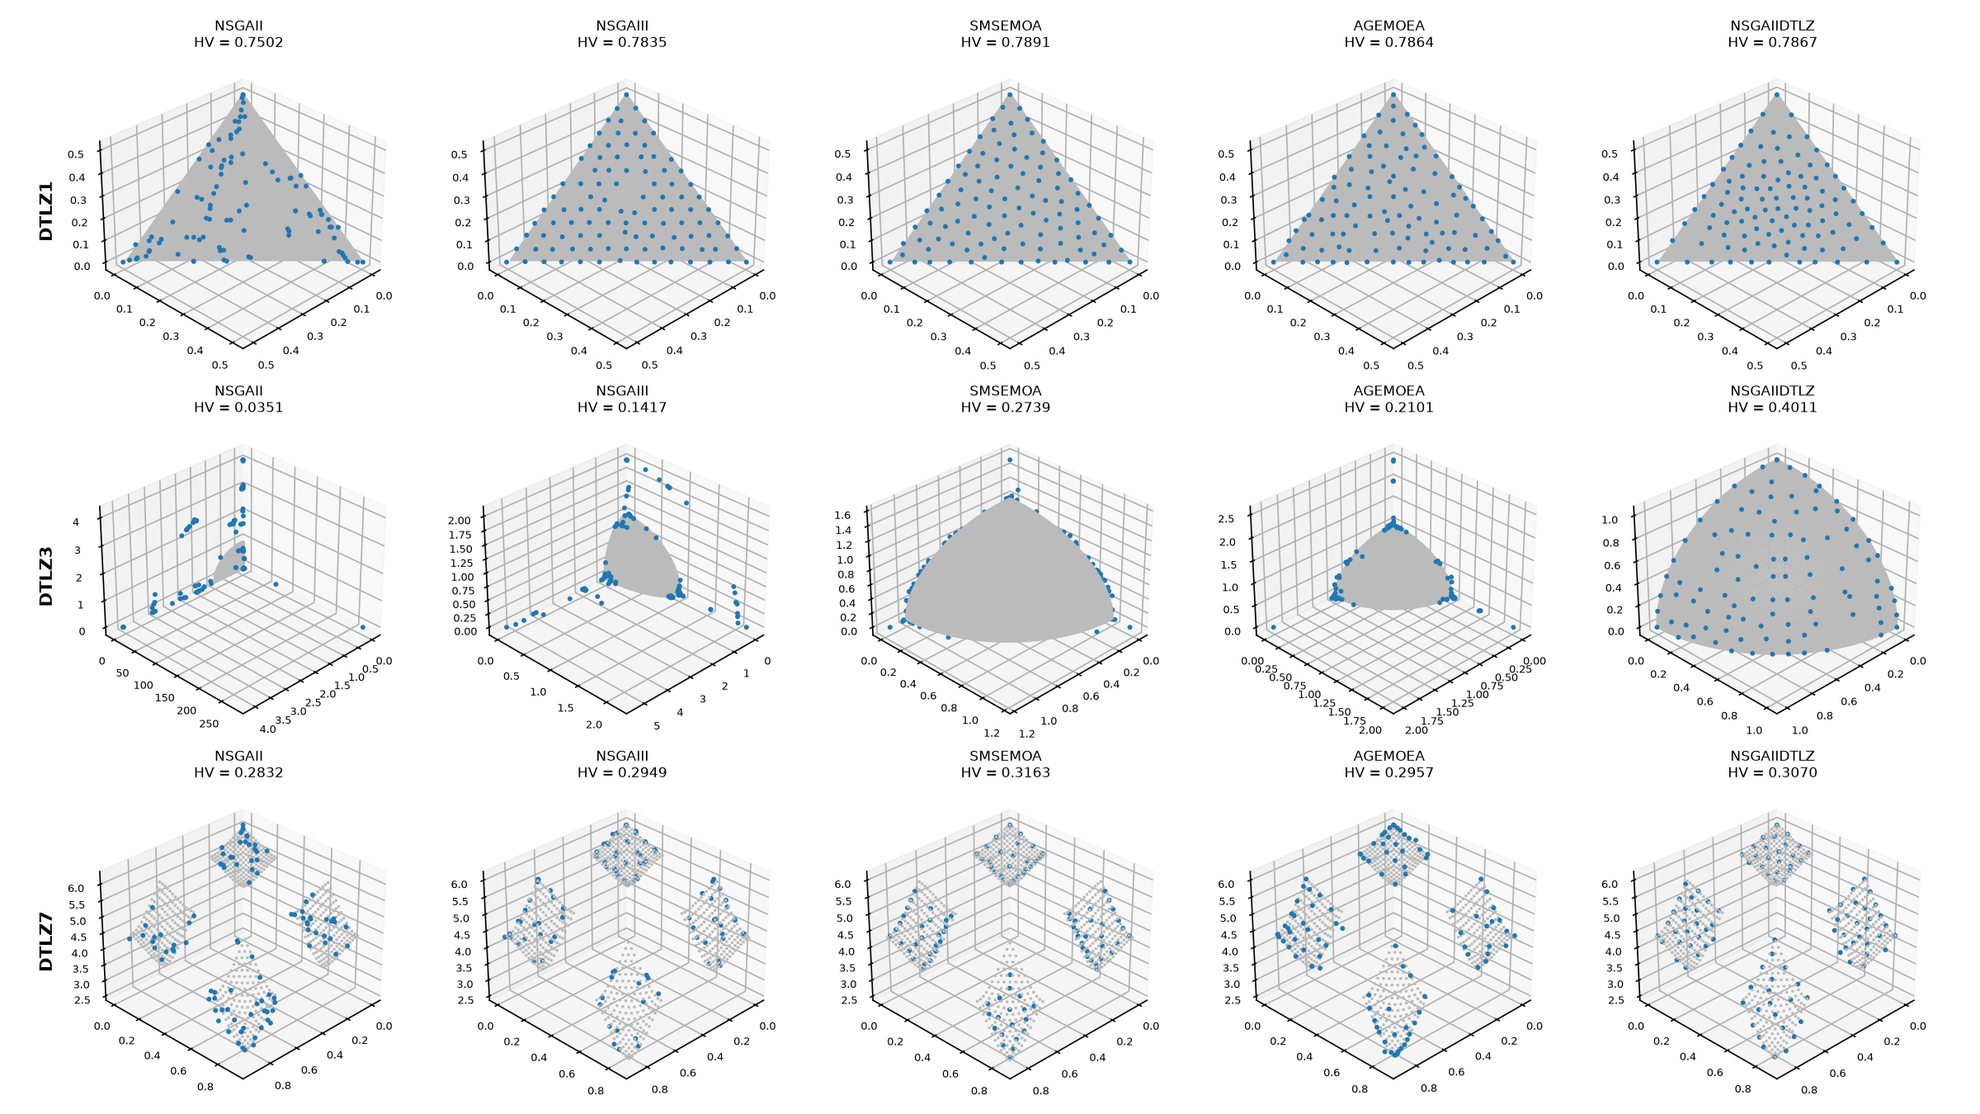
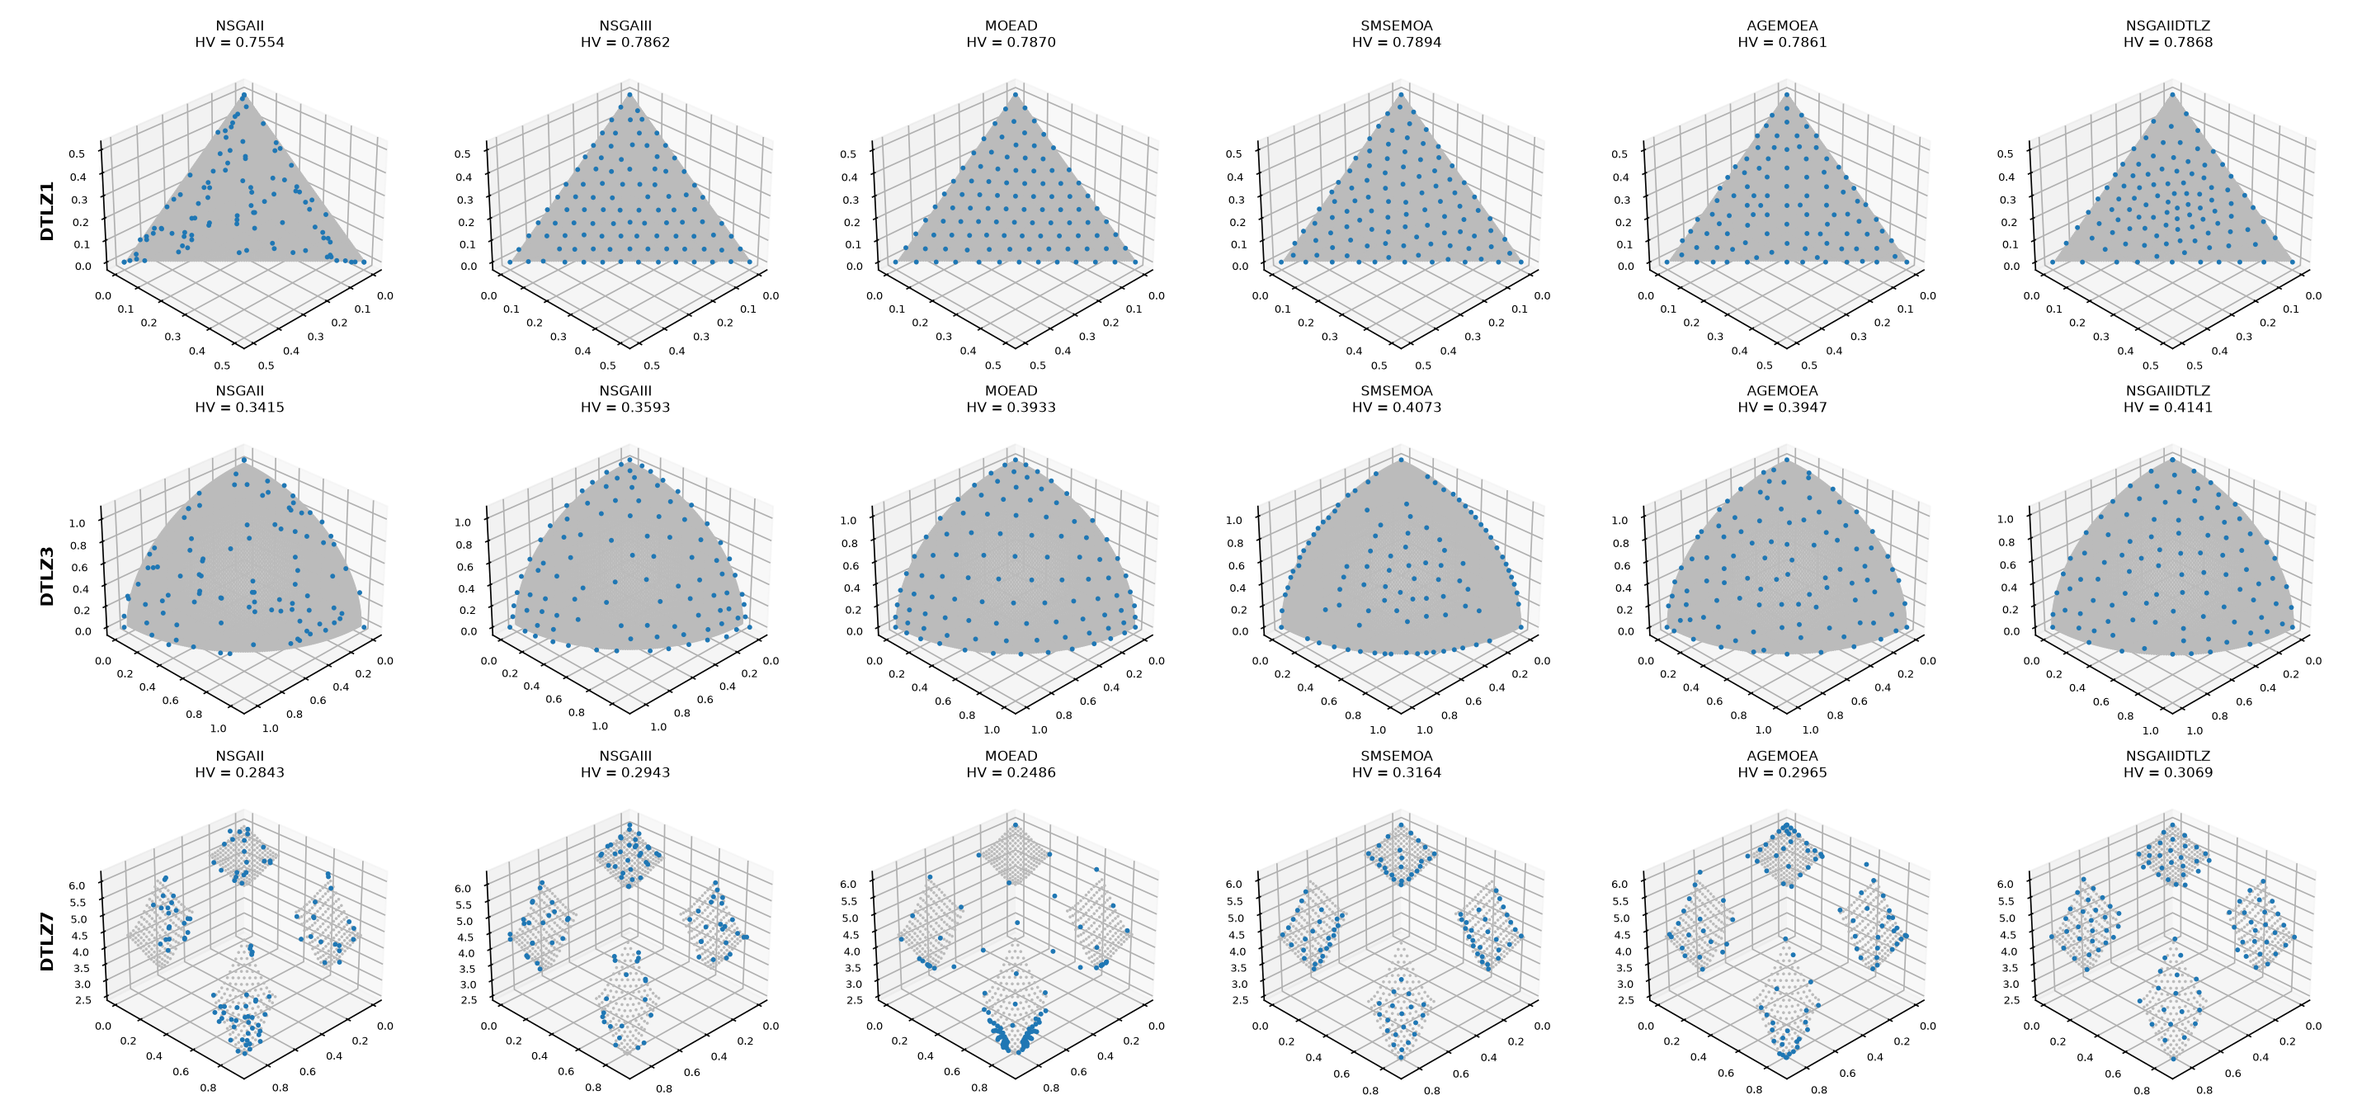
docs: revise tutorial E7 with the validation at 50000 evaluations
The page now describes a single experiment: training with 10000
evaluations and validation with 50000 against NSGA-II, NSGA-III, MOEA/D,
SMS-EMOA and AGE-MOEA, with Wilcoxon pivot tables, critical difference
plots and the fronts with the median HV. Changelog entries updated.

diff --git a/docs/tutorials/training_sets_indicators_budgets.rst b/docs/tutorials/training_sets_indicators_budgets.rst
@@ -4,7 +4,7 @@ E7. Training Sets, Indicators and Budgets
 =========================================
 
 :Level: Intermediate
-:Time: about 1 hour, of which the training takes about 35 minutes and the validation about 11
+:Time: about 1 hour, of which the training takes about 35 minutes and the validation about 15
 :Timings measured on: Apple M5 Pro (18 cores, 16 of them used by the training and the validation),
    64 GB of RAM, macOS 26.6.2, Java 21.0.12 (Oracle JDK)
 :Prerequisites: :doc:`E2. Base-level algorithms <base_level_algorithms>`,
@@ -21,7 +21,7 @@ training run and validates its result, deciding the four things that define a tr
 - the **independent runs** of each configuration.
 
 The case study tunes NSGA-II for the DTLZ1-7 problems with three objectives, and then validates the
-configuration found against the standard NSGA-II, NSGA-III, SMS-EMOA and AGE-MOEA, on those
+configuration found against the standard NSGA-II, NSGA-III, MOEA/D, SMS-EMOA and AGE-MOEA, on those
 problems and on the WFG1-9 problems, which the training never saw.
 
 The code of this tutorial is in two classes: the training,
@@ -109,14 +109,14 @@ The budgets
 
 The budget of the **validation** follows the literature: studies with the DTLZ and WFG problems
 with three objectives usually give each algorithm 40000 or 50000 evaluations. The validation
-below uses 40000.
+below uses 50000.
 
 The budget of the **training** is a decision of its own, and a key one in real applications.
 Meta-optimizing is expensive: its cost grows linearly with the evaluations of each base-level run.
 The training budget should be small enough for the training to be affordable, but large enough
 for the configurations it finds to be competitive when they are validated with the full budget.
-This case study trains with **10000 evaluations per problem**, a quarter of the validation budget,
-which makes the training four times cheaper than training with 40000.
+This case study trains with **10000 evaluations per problem**, a fifth of the validation budget,
+which makes the training five times cheaper than training with 50000.
 
 The risk of a small training budget is that it rewards configurations that converge fast but may
 stall, or lose diversity, when they are given more evaluations. Only the validation with the full
@@ -298,18 +298,20 @@ little variation: crossover is applied with probability 0.08, and the mutation p
 0.131 / n per variable, with a high distribution index, which makes small steps. The diversity of
 the result comes from the external archive, which keeps 100 solutions spread by the angles they
 form in the objective space. It is a very exploitative configuration: the validation tells whether
-it pays off with 40000 evaluations and on other problems.
+it pays off with 50000 evaluations and on other problems.
 
 Step 4: validation
 ------------------
 
-The validation is a jMetal experiment (``ExperimentBuilder``) that runs five algorithms, with 40000
+The validation is a jMetal experiment (``ExperimentBuilder``) that runs six algorithms, with 50000
 evaluations and a population of 100, on DTLZ1-7 (the training problems) and WFG1-9 (problems the
 training never saw), all with three objectives:
 
 - the standard NSGA-II, first, and the tuned NSGA-II (``NSGAIIDTLZ``), last;
-- NSGA-III, SMS-EMOA and AGE-MOEA, three algorithms designed for or commonly used with three or
-  more objectives, with their default configurations (``src/main/resources/defaultConfigurations/``).
+- NSGA-III, MOEA/D, SMS-EMOA and AGE-MOEA, four algorithms designed for or commonly used with
+  three or more objectives, with their default configurations
+  (``src/main/resources/defaultConfigurations/``); MOEA/D reads its weight vectors from
+  ``resources/weightVectors/W3D_100.dat``.
 
 Each algorithm is run 15 times on each problem. This is enough for a tutorial; a real study should
 use 30 or more runs.
@@ -327,7 +329,7 @@ From the root of the repository:
     java -cp target/Evolver-<version>-jar-with-dependencies.jar \
         org.uma.evolver.example.tutorial.TrainingSetsValidationTutorial
 
-It took about 11 minutes. The fronts of every run are written to
+It took about 15 minutes. The fronts of every run are written to
 ``results/tutorial-e7/validation/data``, and the values of the indicators (EP, HV and IGD+) of every
 run to ``results/tutorial-e7/validation/QualityIndicatorSummary.csv``.
 
@@ -339,7 +341,7 @@ studies (``pip install SAES``), with the script ``scripts/wilcoxon_pivot_tables.
 
     python scripts/wilcoxon_pivot_tables.py \
         results/tutorial-e7/validation/QualityIndicatorSummary.csv \
-        --pivot NSGAIIDTLZ --order NSGAII,NSGAIII,SMSEMOA,AGEMOEA,NSGAIIDTLZ \
+        --pivot NSGAIIDTLZ --order NSGAII,NSGAIII,MOEAD,SMSEMOA,AGEMOEA,NSGAIIDTLZ \
         --output-dir results/tutorial-e7/tables --png
 
 It writes a **Wilcoxon pivot table** per indicator, in LaTeX and as an image. Each cell has the
@@ -355,34 +357,69 @@ and ``=`` of each algorithm.
    :alt: Wilcoxon pivot table of the hypervolume (HV, to be maximized)
    :figwidth: 100%
 
-   Hypervolume (HV, higher is better), 40000 evaluations, 15 runs.
+   Hypervolume (HV, higher is better), 50000 evaluations, 15 runs.
 
 .. figure:: ../figures/tutorials/e7-wilcoxon-igdplus.png
    :align: center
    :alt: Wilcoxon pivot table of IGD+ (to be minimized)
    :figwidth: 100%
 
-   IGD+ (lower is better), 40000 evaluations, 15 runs.
+   IGD+ (lower is better), 50000 evaluations, 15 runs.
+
+The tables compare the algorithms problem by problem. A **critical difference plot** compares them
+over all the problems at once: each algorithm is placed by its average rank (the mean over the
+problems of its Friedman rank, computed on the medians), and a bar joins the algorithms whose
+average ranks differ by less than the critical difference of the Nemenyi test (``CD``, for a
+significance level of 0.05), meaning that their differences are not significant. The script
+``scripts/critical_difference_plots.py`` draws them with SAES as well:
+
+.. code-block:: bash
+
+    python scripts/critical_difference_plots.py \
+        results/tutorial-e7/validation/QualityIndicatorSummary.csv \
+        --indicators HV,IGD+ --output-dir results/tutorial-e7/tables
+
+.. list-table::
+   :widths: 50 50
+
+   * - .. figure:: ../figures/tutorials/e7-cdplot-hv.png
+          :alt: Critical difference plot of HV
+
+          HV
+     - .. figure:: ../figures/tutorials/e7-cdplot-igdplus.png
+          :alt: Critical difference plot of IGD+
+
+          IGD+
 
 Reading the results
 ~~~~~~~~~~~~~~~~~~~
 
-**Did the training budget work?** Yes. Trained with 10000 evaluations and run with 40000, the tuned
-NSGA-II is significantly better than the standard one on 13 of the 16 problems in HV (and in IGD+),
-and worse only on 2. The compromise of training with a quarter of the budget paid off, and there is
-no need to repeat the training with a larger budget.
+**Did the training budget work?** Yes. Trained with 10000 evaluations and run with 50000, the tuned
+NSGA-II is significantly better than the standard one on 14 of the 16 problems in HV (13 in IGD+),
+and worse only on 2. Training with a fifth of the validation budget found a competitive
+configuration.
 
 **On the training problems (DTLZ1-7)**, the tuned NSGA-II beats the standard NSGA-II and NSGA-III on
-all seven, and AGE-MOEA on six (the seventh is a tie). SMS-EMOA, which selects its solutions by their
-contribution to the hypervolume, has the best HV on most problems; the tuned NSGA-II is second on
-all of them but DTLZ3, where it has the best median.
+all seven, and MOEA/D and AGE-MOEA on six (the seventh, DTLZ1, is a tie with both). Against
+SMS-EMOA, which selects its solutions by their contribution to the hypervolume, it ties on three
+(DTLZ3, DTLZ4 and DTLZ6) and loses on four by small margins; on those three it has the best median
+of all.
 
-**On the problems it never saw (WFG1-9)**, the picture is mixed. The tuned NSGA-II is still better
-than the standard one on 6 of the 9 problems, but it loses to NSGA-III on 5 and to AGE-MOEA on 6. On
-WFG1 it is clearly worse than every other algorithm (HV = 0.35, against 0.79 to 0.90). WFG1 biases
-the distribution of its solutions and has a flat region in its search space, features that no DTLZ
-problem has; a plausible explanation is that a configuration with so little variation cannot
-overcome them, and nothing in the training set told the meta-optimizer so.
+**On the problems it never saw (WFG1-9)**, the picture is mixed. The tuned NSGA-II is better than the
+standard NSGA-II on 7 of the 9 problems and than MOEA/D on 6, but it loses to NSGA-III on 4, to
+AGE-MOEA on 5 and to SMS-EMOA on all of them. On WFG1 it is clearly worse than every other algorithm
+(HV = 0.42, against 0.85 to 0.91). WFG1 biases the distribution of its solutions and has a flat
+region in its search space, features that no DTLZ problem has; a plausible explanation is that a
+configuration with so little variation cannot overcome them, and nothing in the training set told
+the meta-optimizer so.
+
+**Over all the problems**, the critical difference plots rank the tuned NSGA-II second in HV, after
+SMS-EMOA, and third in IGD+, after SMS-EMOA and AGE-MOEA. With 16 problems and six algorithms the
+critical difference is large (2.149): in HV, the tuned NSGA-II is significantly better than the
+standard NSGA-II and not significantly different from the rest, SMS-EMOA included; in IGD+, it is
+not significantly different from any of them. The two analyses answer different questions: the
+tables show significant differences on each problem, while the plots compare ranks over the whole
+set of problems, which needs larger differences to be significant.
 
 This is the main lesson about training sets: a configuration generalizes to problems that resemble
 the ones it was trained on. To tune NSGA-II for both families, the training set should include
@@ -398,7 +435,7 @@ the median HV, over the reference front (in gray):
 .. code-block:: bash
 
     python scripts/plot_median_fronts.py results/tutorial-e7/validation \
-        --problems DTLZ1,DTLZ3,DTLZ7 --algorithms NSGAII,NSGAIII,SMSEMOA,AGEMOEA,NSGAIIDTLZ \
+        --problems DTLZ1,DTLZ3,DTLZ7 --algorithms NSGAII,NSGAIII,MOEAD,SMSEMOA,AGEMOEA,NSGAIIDTLZ \
         --reference-fronts resources/referenceFronts --reference-suffix .3D.csv \
         --output median-fronts.png
 
@@ -407,18 +444,20 @@ the median HV, over the reference front (in gray):
    :alt: Fronts with the median HV of each algorithm on DTLZ1, DTLZ3 and DTLZ7
    :figwidth: 100%
 
-   Fronts with the median HV of each algorithm on DTLZ1, DTLZ3 and DTLZ7 (40000 evaluations).
+   Fronts with the median HV of each algorithm on DTLZ1, DTLZ3 and DTLZ7 (50000 evaluations).
    Each panel has its own axes.
 
-- On **DTLZ1**, the tuned NSGA-II reaches the front and covers it as evenly as NSGA-III, SMS-EMOA
-  and AGE-MOEA, while the standard NSGA-II leaves gaps. SMS-EMOA has a significantly better HV, but
-  the difference is in the third decimal (0.7891 against 0.7867): with 15 runs and small
-  interquartile ranges, very small differences are significant.
-- On **DTLZ3**, a problem with many local fronts, the median run of the tuned NSGA-II is the only
-  one that reaches the whole front; those of NSGA-III, SMS-EMOA and AGE-MOEA leave solutions stuck
-  on local fronts, and the standard NSGA-II is far from it (note the scale of its axes).
+- On **DTLZ1**, the tuned NSGA-II reaches the front and covers it as evenly as NSGA-III, MOEA/D,
+  SMS-EMOA and AGE-MOEA, while the standard NSGA-II leaves gaps. SMS-EMOA has a significantly
+  better HV, but the difference is in the third decimal (0.7894 against 0.7868): with 15 runs and
+  small interquartile ranges, very small differences are significant.
+- On **DTLZ3**, a problem with many local fronts, all of them reach the front with 50000
+  evaluations, although the standard NSGA-II leaves gaps. The tuned NSGA-II has the highest HV
+  (0.414, against 0.407 of SMS-EMOA); its points are spread over the whole front, while those of
+  SMS-EMOA gather on its edges, which is how a selection based on the contribution to the
+  hypervolume distributes them.
 - On **DTLZ7**, with four disconnected regions, the tuned NSGA-II covers the four of them, as
-  SMS-EMOA does.
+  SMS-EMOA does, while the median run of MOEA/D concentrates its solutions in one region.
 
 On the problems it was trained for, the fronts of the tuned configuration have the expected
 quality; its weak point is the problems it was not trained for, such as WFG1.

diff --git a/docs/proposals/tutorials.md b/docs/proposals/tutorials.md
@@ -36,7 +36,7 @@ Levels: **Introductory**, **Intermediate**, **Advanced**.
 | E4 | Introductory | Evolver in 10 minutes | Install JDK 21 and Maven, build, run a configurable algorithm and a CLI training request. An evolution of the current quick start, focused on getting everything working. | First version (`docs/quick_start.rst`, `tutorial-e4-request.yaml`), in review |
 | E5 | Intermediate | Configurable components in depth | External archives, initialization strategies, variation (crossover and mutation, DE in MOEA/D), selection and replacement, and how each choice changes the algorithm's behavior. | Planned |
 | E6 | Intermediate | Designing your own parameter space | Reducing or extending a YAML space, adding conditional dependencies, and how that changes the size of the search space (e.g. tuning NSGA-II with SBX only, `NSGAIIDoubleReduced.yaml`). | Planned |
-| E7 | Intermediate | Training sets, indicators and budgets | Choosing training problems and their reference fronts; indicators as objectives (EP, NHV, HV−, IGD+, number of evaluations); evaluation budget strategies (fixed, random range); independent runs. | First version (`docs/tutorials/training_sets_indicators_budgets.rst`, `example.training.dtlz.AsyncNSGAIIOptimizingNSGAIIForBenchmarkDTLZ`, `example.tutorial.TrainingSetsValidationTutorial`; DTLZ1-7 training, validation on DTLZ1-7 and WFG1-9). In progress: the page describes a first run (training with 10000 evaluations, validation with 40000); the code is set for a second one (20000 and 50000), after which the page will be revised |
+| E7 | Intermediate | Training sets, indicators and budgets | Choosing training problems and their reference fronts; indicators as objectives (EP, NHV, HV−, IGD+, number of evaluations); evaluation budget strategies (fixed, random range); independent runs. | First version (`docs/tutorials/training_sets_indicators_budgets.rst`, `example.training.dtlz.AsyncNSGAIIOptimizingNSGAIIForBenchmarkDTLZ`, `example.tutorial.TrainingSetsValidationTutorial`; DTLZ1-7 training with 10000 evaluations, validation on DTLZ1-7 and WFG1-9 with 50000), in review |
 | E8 | Intermediate | Analyzing training results | Reading `INDICATORS.csv`, `CONFIGURATIONS.csv` and `VAR_CONF.txt`; the meta-optimizer's front; choosing a configuration (best per indicator, knee point); plots with the scripts in `scripts/`. | Planned |
 | E9 | Intermediate | Validating a configuration | Comparing a tuned configuration with the standard one on validation problems with a jMetal `ExperimentBuilder` study: Wilcoxon and Friedman tests, critical-difference plots. | Planned |
 | E10 | Intermediate | Problems without a reference front | Using HV− with approximate reference points, with the multi-objective TSP as example (builds on the current `reference_fronts.rst`). | Planned |

diff --git a/docs/changelog.rst b/docs/changelog.rst
@@ -12,9 +12,9 @@ Added
 ~~~~~
 
 - Add :doc:`tutorial E7, training sets, indicators and budgets
-  <tutorials/training_sets_indicators_budgets>`: tuning NSGA-II for DTLZ1-7 with a quarter of the
-  validation budget, and validating the configuration found against NSGA-II, NSGA-III, SMS-EMOA and
-  AGE-MOEA on DTLZ1-7 and WFG1-9, with its validation study
+  <tutorials/training_sets_indicators_budgets>`: tuning NSGA-II for DTLZ1-7 with a fifth of the
+  validation budget, and validating the configuration found against NSGA-II, NSGA-III, MOEA/D,
+  SMS-EMOA and AGE-MOEA on DTLZ1-7 and WFG1-9, with its validation study
   (``example.tutorial.TrainingSetsValidationTutorial``)
 - Add the optional ``writePopulation`` field to training requests (and to ``TrainingRequest``):
   it also writes the whole population of the meta-optimizer at every checkpoint to
@@ -22,6 +22,8 @@ Added
   configurations; ``scripts/plot_meta_population.py`` plots it
 - Add ``scripts/plot_median_fronts.py``, which plots the fronts with the median HV of each
   algorithm and problem of a jMetal validation study
+- Add ``scripts/critical_difference_plots.py``, which draws critical difference plots (with SAES)
+  of a jMetal ``QualityIndicatorSummary.csv``
 - Add ``scripts/wilcoxon_pivot_tables.py``, which writes Wilcoxon pivot tables (with SAES) of a
   jMetal ``QualityIndicatorSummary.csv``, with the tuned configuration as pivot
 - Add ``org.uma.evolver.cli.solving.SolveRunnerMain``, which runs a configurable algorithm, with a
@@ -45,7 +47,7 @@ Changed
 ~~~~~~~
 
 - ``AsyncNSGAIIOptimizingNSGAIIForBenchmarkDTLZ`` and the bundled ``DTLZ3DNSGAIIBaseLevel.yaml``
-  use NHV and EP as meta-objectives (instead of HV− and EP) and 20000 evaluations per problem
+  use NHV and EP as meta-objectives (instead of HV− and EP) and 10000 evaluations per problem
   (instead of 16000); the class uses 16 cores, writes the whole population of the meta-optimizer,
   writes to ``results/tutorial-e7/training``, and no longer calls ``System.exit`` at the end, so
   that its live plot stays open with the final population until the window is closed

diff --git a/README.md b/README.md
@@ -250,14 +250,16 @@ If you use Evolver in your research, please cite:
 ### v2.2-SNAPSHOT
 
 - Add tutorial E7 (training sets, indicators and budgets): tuning NSGA-II for DTLZ1-7 with a
-  quarter of the validation budget, and validating the configuration found against NSGA-II,
-  NSGA-III, SMS-EMOA and AGE-MOEA on DTLZ1-7 and WFG1-9. `AsyncNSGAIIOptimizingNSGAIIForBenchmarkDTLZ`
-  and `DTLZ3DNSGAIIBaseLevel.yaml` now use NHV and EP with 20000 evaluations per problem.
+  fifth of the validation budget, and validating the configuration found against NSGA-II,
+  NSGA-III, MOEA/D, SMS-EMOA and AGE-MOEA on DTLZ1-7 and WFG1-9. `AsyncNSGAIIOptimizingNSGAIIForBenchmarkDTLZ`
+  and `DTLZ3DNSGAIIBaseLevel.yaml` now use NHV and EP with 10000 evaluations per problem.
 - Add the optional `writePopulation` field to training requests, which also writes the whole
   population of the meta-optimizer at every checkpoint (`POPULATION_INDICATORS.csv`,
   `POPULATION_CONFIGURATIONS.csv`), and `scripts/plot_meta_population.py`, which plots it.
 - Add `scripts/plot_median_fronts.py`, which plots the fronts with the median HV of each algorithm
   and problem of a jMetal validation study.
+- Add `scripts/critical_difference_plots.py`, which draws critical difference plots (with SAES) of
+  a jMetal validation study.
 - Add `scripts/wilcoxon_pivot_tables.py`, which writes Wilcoxon pivot tables (with SAES) of a
   jMetal validation study, with the tuned configuration as pivot.
 - Add `SolveRunnerMain` (`org.uma.evolver.cli.solving`), which runs a configurable algorithm on a
